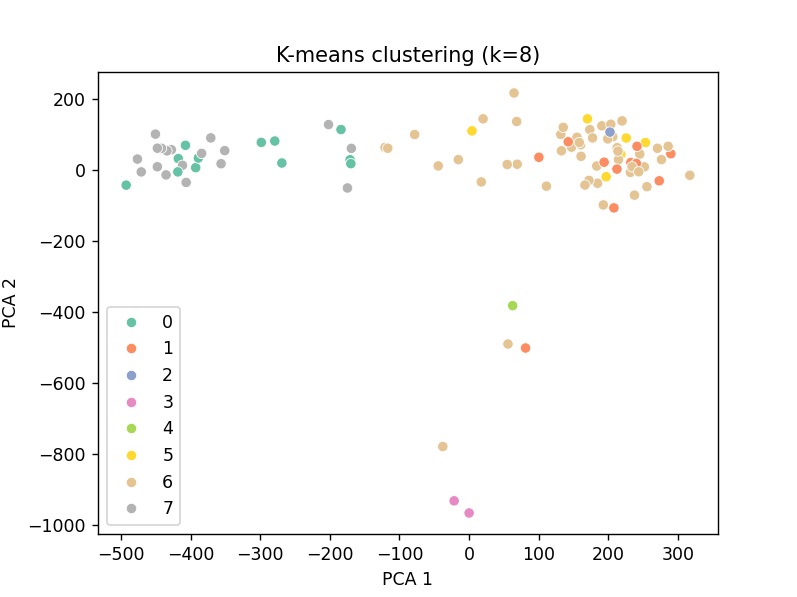
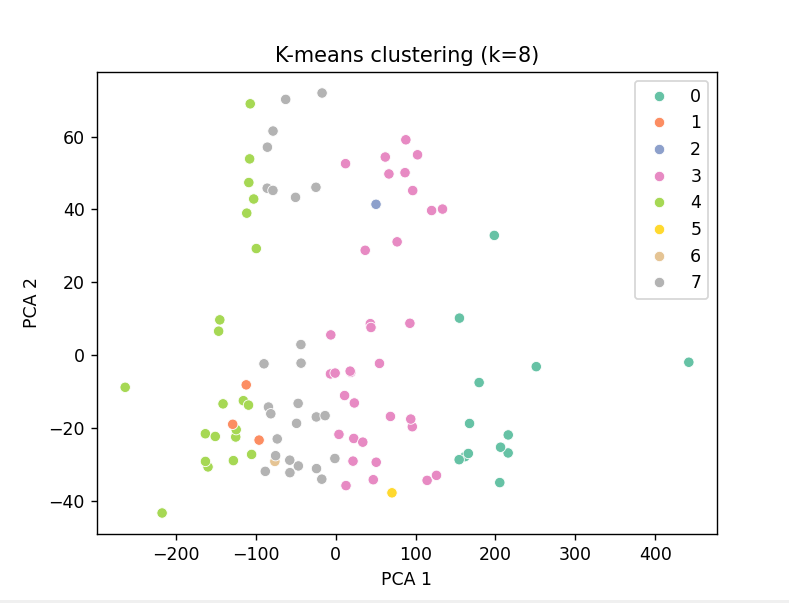
Corrections for kmeans

diff --git a/src/kmeans.py b/src/kmeans.py
@@ -4,7 +4,7 @@ import matplotlib.pyplot as plt
 import seaborn as sns
 from sklearn.decomposition import PCA
 from scipy.stats import chi2_contingency
-
+from sklearn.preprocessing import StandardScaler
 
 def optimize(datapath, max_k):
     means = []
@@ -46,14 +46,14 @@ def kmeans(datapath, k, num_of_genes):
     gene_var = numeric_data.var(axis=1)
     genes = gene_var.sort_values(ascending=False).head(num_of_genes).index
     data = numeric_data.loc[genes]
-
+    scaled_data = StandardScaler().fit_transform(data)
     km = KMeans(n_clusters=k, random_state=42)
-    clusters = km.fit_predict(data)
+    clusters = km.fit_predict(scaled_data)
     clustered_df = data.copy()
     clustered_df['Cluster'] = clusters
 
     pca = PCA(n_components=2, random_state=42)
-    pca_result = pca.fit_transform(data)
+    pca_result = pca.fit_transform(scaled_data)
 
     # Plot
     sns.scatterplot(x=pca_result[:, 0], y=pca_result[:, 1], hue=clusters, palette='Set2')
@@ -92,7 +92,7 @@ g_1000 = kmeans("data/with_gene_names.tsv", 8, 1000)
 g_5000 = kmeans("data/with_gene_names.tsv", 8, 5000)
 g_10000 = kmeans("data/with_gene_names.tsv", 8, 10000)
 
-chi(g_10, g_100, g_1000, g_5000, g_10000)
+#chi(g_10, g_100, g_1000, g_5000, g_10000)
 
 """
 Comparison        Chi²      p-value  DOF  Common Genes
